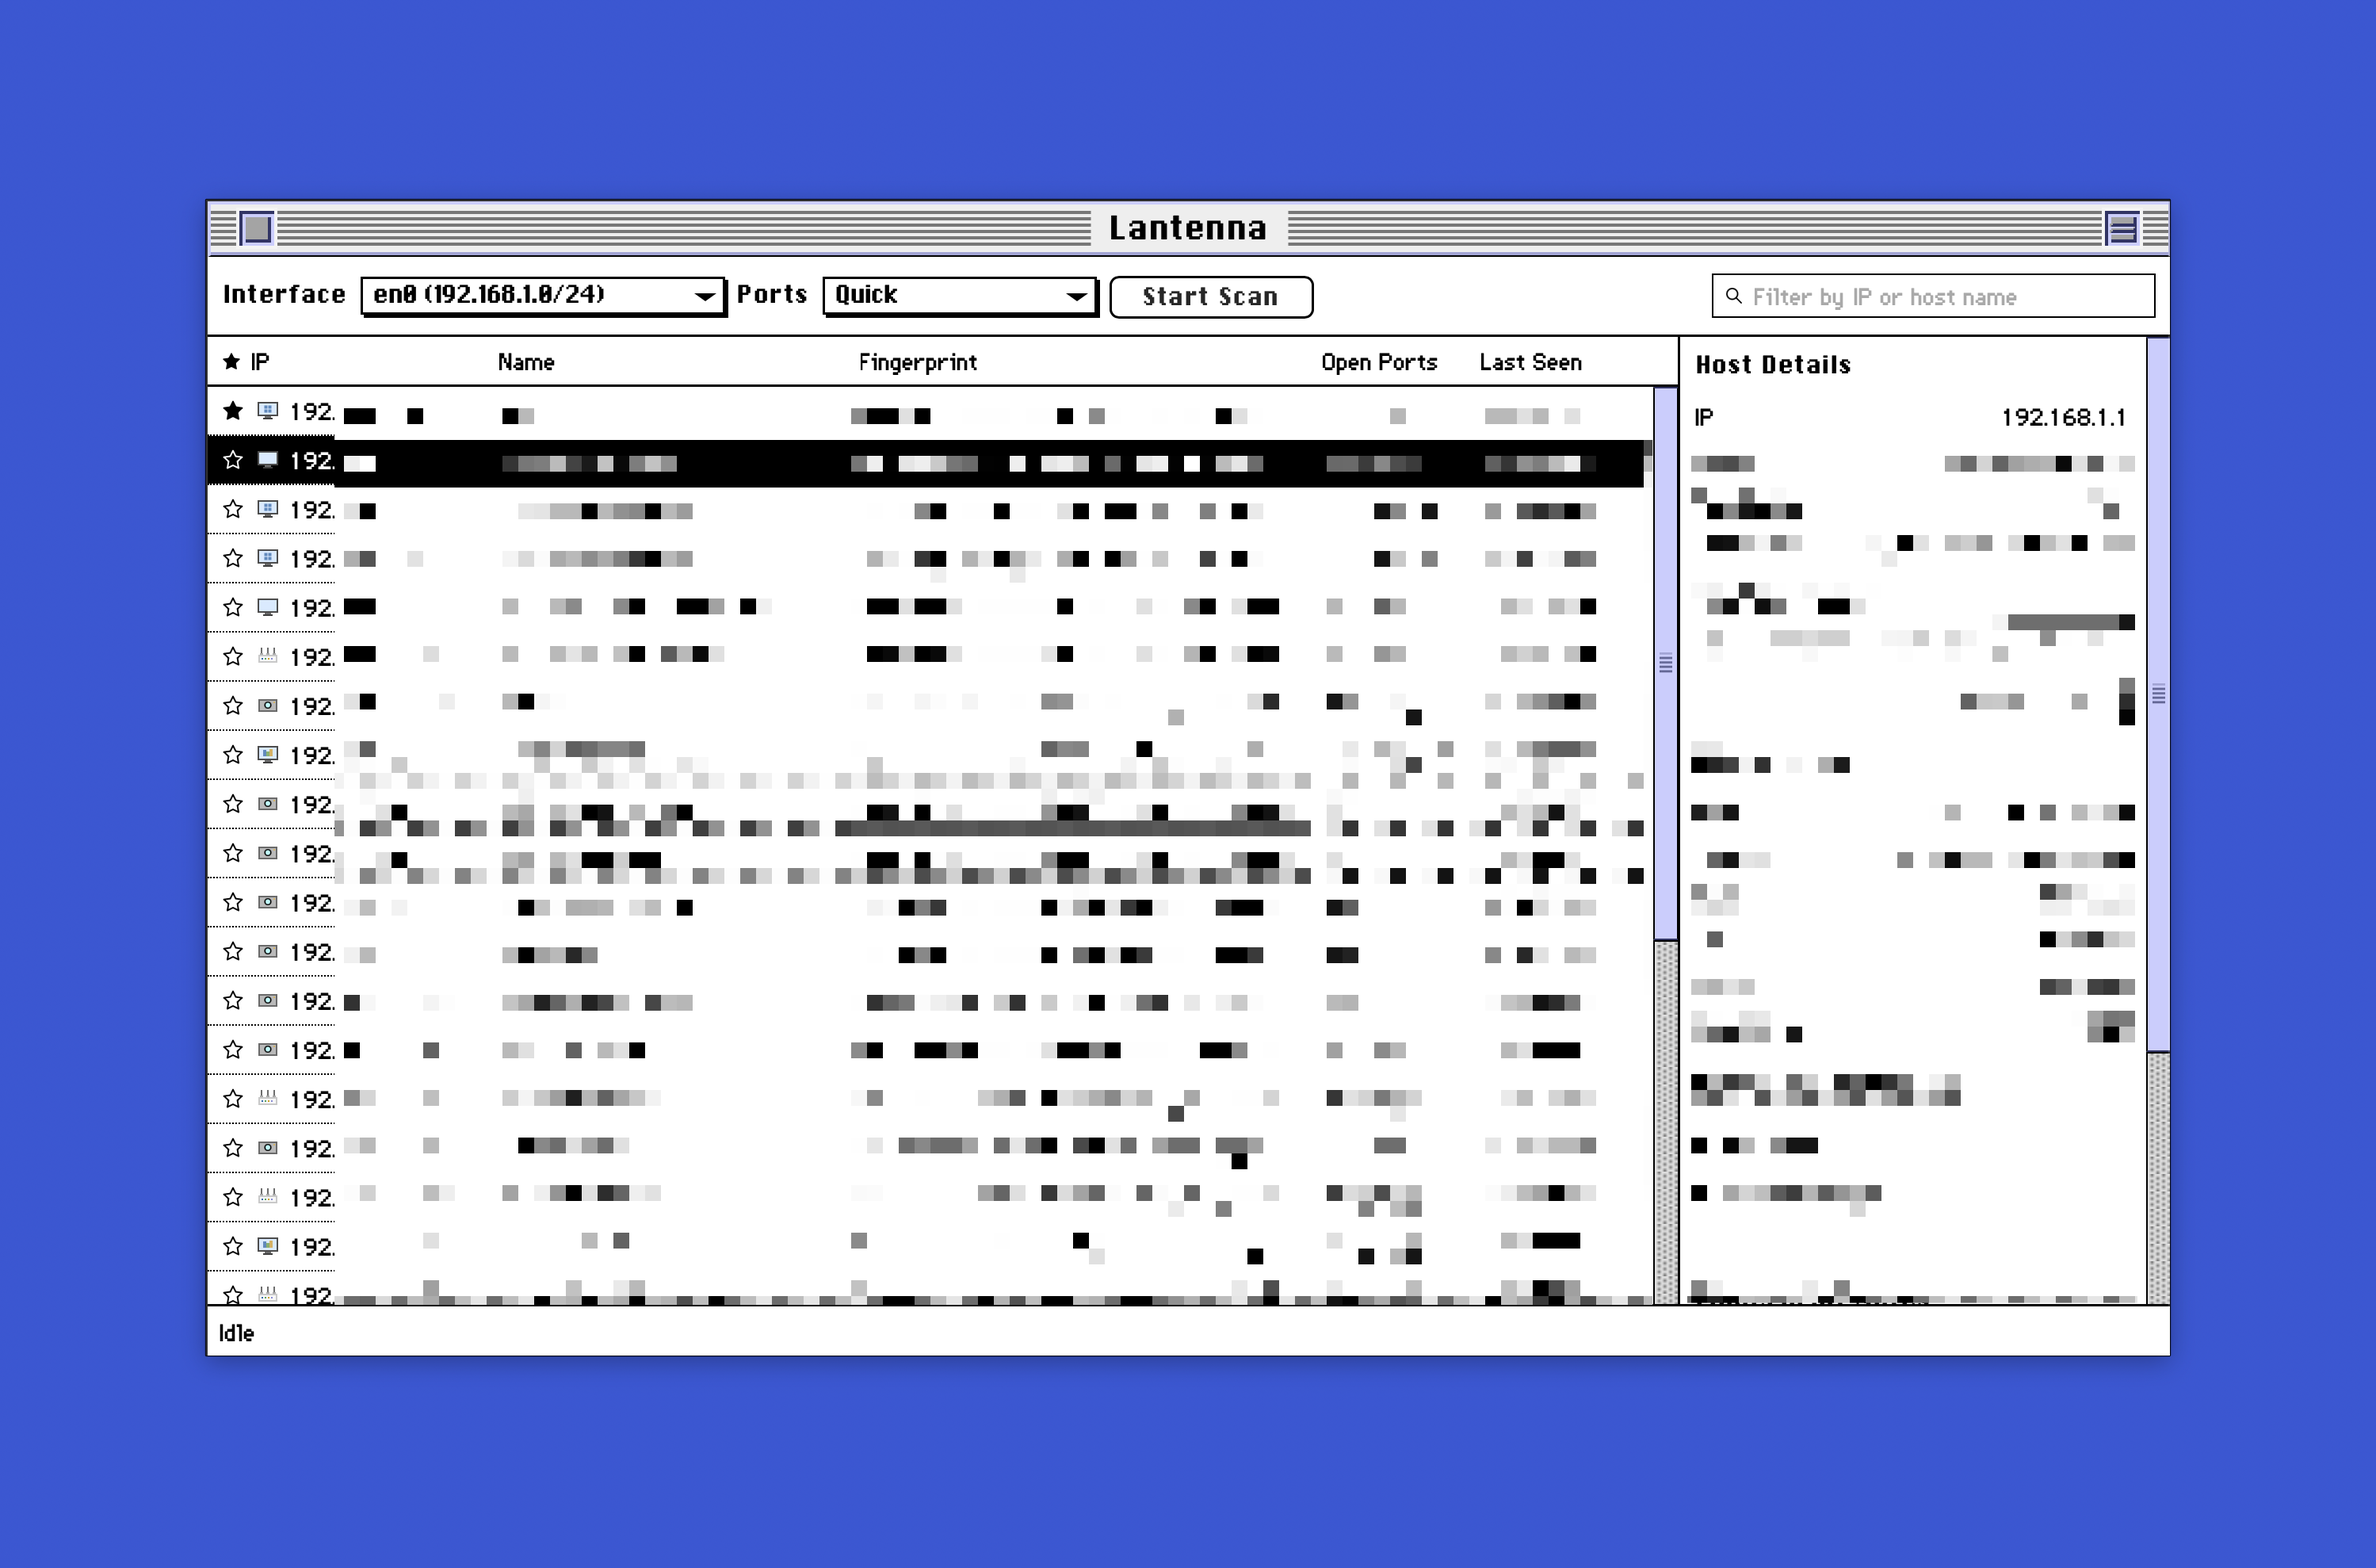
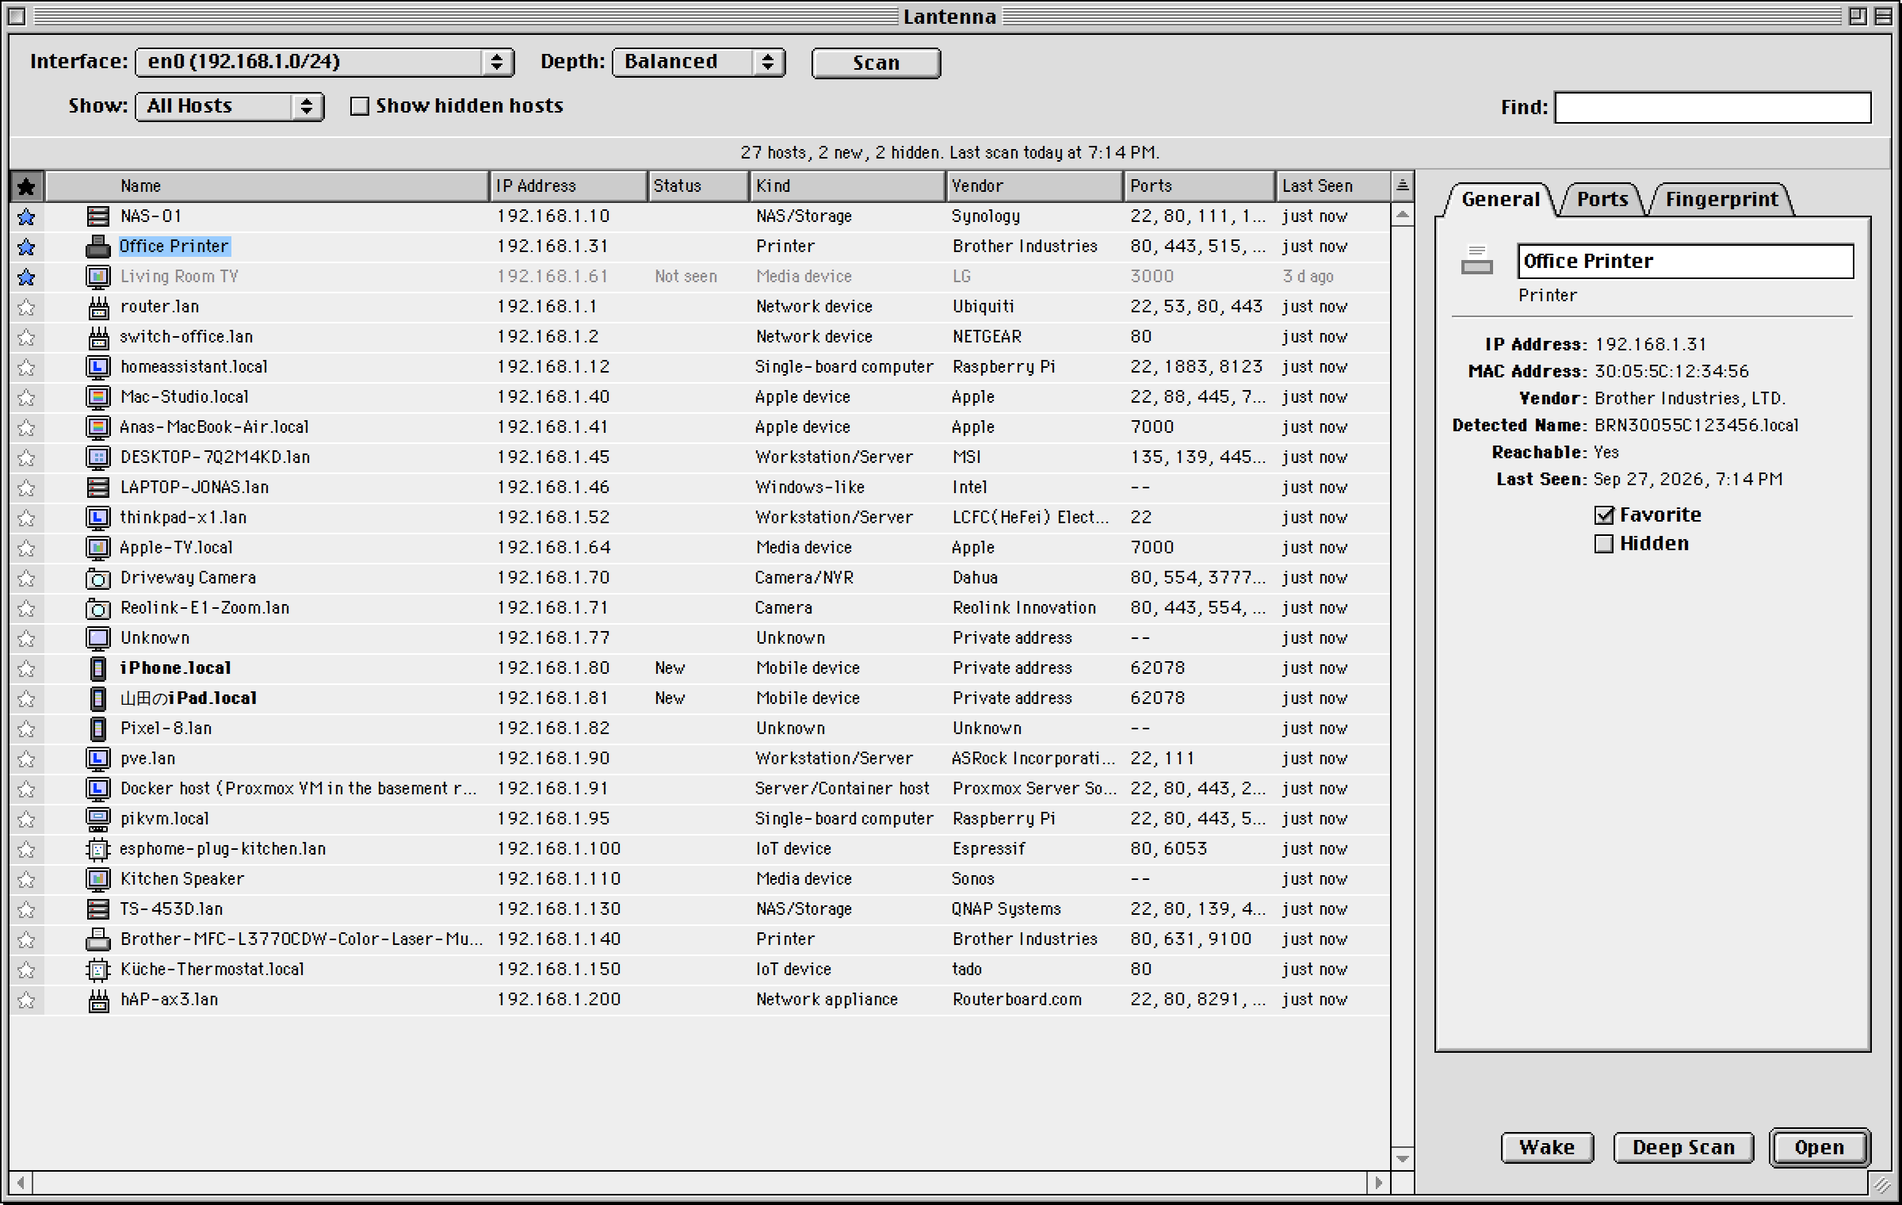
Describe the Mac OS 8 port in README and CHANGELOG
README: the Mac OS 8.5 look, a short "Using Lantenna" section (menus,
contextual menus, keys, favorites, Balloon Help, the icon view), and
how to run the page on the mock backend (npm run dev -- --mode mock).
CHANGELOG: the port's user-visible changes under Unreleased.

The screenshot is the page rendered by Chromium at 2x on the mock
backend (scenario "rescanned", macOS layout, the printer selected),
as spec 8.6 planned; it replaces the System 7 capture.

Claude-Session: https://claude.ai/code/session_014fhnVpnnDZT2sjDkM4thWd

diff --git a/README.md b/README.md
@@ -4,13 +4,34 @@
 > LLM disclosure: This codebase was written with substantial help from large language models: AI coding agents working from the [`AGENTS.md`](AGENTS.md) brief in this repo.
 
 Lantenna is a Tauri-based program for macOS and Linux that scans the local LAN and displays discovered hosts, host names, and open ports.
+It looks and works like a Mac OS 8.5 utility, drawn with [Osmium UI](https://github.com/L-K-M/osmium-ui).
 
 **Latest release:** v<!-- version -->1.0.1<!-- /version --> · [Download](https://github.com/L-K-M/Lantenna/releases/latest)
 
-![Screenshot of Lantenna showing a list of discovered hosts with their IP addresses, host names, and open ports](./media-sources/screenshot.png)
+![Screenshot of Lantenna in its Mac OS 8 window: a list of discovered hosts with their IP addresses, kinds, vendors and open ports, and the Host Information pane for a printer](./media-sources/screenshot.png)
 
 > [!IMPORTANT]
 > LLM Disclosure: This project was developed with the assistance of large language models (AI coding tools).
+
+## Using Lantenna
+
+Choose an interface and a depth, then click **Scan**. The window header
+says what the scan is doing; hosts appear in the list as they are found.
+Select a host to see its addresses, ports and fingerprint in the Host
+Information pane, and double-click it (or press Return) to open its web
+page, file server, remote login or screen sharing.
+
+- Every command is in the menu bar (on Linux, inside the window).
+  Control-click or right-click a host, or empty space in the list, for a
+  contextual menu.
+- Keys (Control instead of Command on Linux): ⌘R Scan, ⌘. Stop, ⌘F Find,
+  ⌘O Open, ⌘I Get Info, ⌘D Deep Scan, ⌘W Close Window. While the list
+  has the keyboard, ⌘C copies the selected host's IP address and ⌘⌫
+  (Control-Backspace on Linux) hides or shows it.
+- Click a star to make a host a favorite; the Favorites menu jumps to it.
+- Help > Show Balloons explains every control.
+- View > as Icons shows the hosts as icons; View > Hide Host Information
+  gives the list the whole window.
 
 ## Platform support
 
@@ -69,6 +90,13 @@ npm run tauri dev
 # Build for production
 npm run tauri build
 ```
+
+To work on the interface in a browser without the backend, run
+`npm run dev -- --mode mock` and open
+`http://localhost:1420/?scenario=scanning&platform=mac`: a mock backend
+(`src/lib/dev/mockBackend.ts`) plays scripted scans. Scenarios include
+`idle`, `first-run`, `scanning`, `fingerprint`, `stopping`, `error`,
+`empty` and `many`; `platform=linux` shows the Linux layout.
 
 Bundles for the host architecture are written below
 `src-tauri/target/release/bundle/` — a `.dmg` on macOS; a `.deb` and an

diff --git a/CHANGELOG.md b/CHANGELOG.md
@@ -2,6 +2,22 @@
 
 ## Unreleased
 
+- A Mac OS 8.5 look, drawn with Osmium UI: a Platinum window with close,
+  zoom, collapse and grow boxes; labeled controls on the gray; a Finder
+  window header with chasing arrows and a progress bar; a Finder-style list
+  with a Status column, a star column and resizable, remembered columns; a
+  Host Information pane with General, Ports and Fingerprint tabs; and the
+  icon view restyled to match.
+- Menus for every command (the native menu bar on macOS, a Mac OS 8 menu
+  bar inside the window on Linux), contextual menus in both views and
+  keyboard equivalents such as Command-R to scan and Command-period to stop.
+- No more toasts: scan state lives in the window header, per-host results in
+  the pane's status line, and failures in alerts that say what to do next.
+- Balloon Help (Help > Show Balloons) replaces the hover tooltips.
+- Favorites, hidden hosts and custom names carry over; the host's name is
+  now edited in the General tab, and the Favorites menu jumps to a favorite.
+- macOS follows the system accent color; Linux uses Mac OS 8.5's default
+  Lavender.
 - Linux builds: Ubuntu/Linux `.deb` and `.AppImage` bundles next to the macOS
   `.dmg`. On Linux the neighbour table is read with `ip neigh` (falling back to
   `arp`), and the title bar tracks GTK's own active state while dragging.
